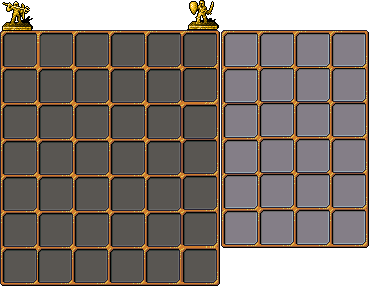
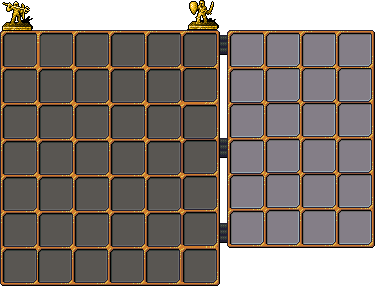
fixed inventory/vault wrong init placement
fixed inventory/vault wrong init placement

diff --git a/rpg/views/home_view.py b/rpg/views/home_view.py
@@ -119,11 +119,12 @@ class HomeView(arcade.View):
         self.camera_gui.use()
         self.home_button_bar.draw()
         self.button_list.draw()
-        if self.inventory and self.inventory.open:
+        if self.inventory:
             self.inventory.draw()
         
-        if self.vault and self.vault.open:
+        if self.vault:
             self.vault.draw()
+
 
         self.pointer.draw()
         # self.pointer.draw_hit_box(arcade.color.RED, line_thickness=1)
@@ -139,39 +140,34 @@ class HomeView(arcade.View):
     def handle_inventory_event(self, button):
         """Handle the action when the inventory button is clicked."""
         
-        # Close the vault if it's open
-        if self.vault and self.vault.open:
-            self.vault.open = False
+        # Close the vault if it exists
+        if self.vault:
+            self.vault = None
             self.vault_button.pressed = False  # Also un-press the vault button
 
+        # Toggle the existence of the inventory
         if self.inventory:
-            self.inventory.open = not self.inventory.open
-            if not self.inventory.open:
-                button.pressed = False
+            self.inventory = None
+            button.pressed = False
         else:
-            self.inventory = Inventory(filename="assets/gui/inventory.png", 
-                                    center_x=self.window.width, 
-                                    center_y=self.window.height/2)
-            self.inventory.open = True
+            self.inventory = Inventory(filename="assets/gui/inventory.png", center_x=self.window.width, center_y=self.window.height)
             self.storage_list.append(self.inventory)
 
     def handle_vault_event(self, button):
         """Handle the action when the vault button is clicked."""
         
-        # Close the inventory if it's open
-        if self.inventory and self.inventory.open:
-            self.inventory.open = False
+        # Close the inventory if it exists
+        if self.inventory:
+            self.inventory = None
             self.inventory_button.pressed = False  # Also un-press the inventory button
 
+        # Toggle the existence of the vault
         if self.vault:
-            self.vault.open = not self.vault.open
-            if not self.vault.open:
-                button.pressed = False
+            self.vault = None
+            button.pressed = False
         else:
             self.vault = Vault(filename="assets/gui/vault.png", 
-                            center_x=self.window.width, 
-                            center_y=self.window.height/2)
-            self.vault.open = True
+                               center_x=self.window.width, center_y=self.window.height)
             self.storage_list.append(self.vault)
             
     def button_press_check_event_launch(self):

diff --git a/rpg/storage.py b/rpg/storage.py
@@ -5,12 +5,11 @@ class Inventory(arcade.Sprite):
     def __init__(self, filename, center_x, center_y, scale=1):
         super().__init__(filename, scale)
         self.open = False
-        self.center_x = center_x
-        self.center_y = center_y
-        self.offset_x = self.width 
+        self.center_x = center_x - 187
+        self.center_y = center_y / 2 + 14
 
     def update(self, window_pos_x, window_pos_y):
-        self.center_x = window_pos_x - (self.offset_x - 64)
+        self.center_x = window_pos_x - 187
         self.center_y = window_pos_y / 2 + 14
 
 
@@ -18,9 +17,9 @@ class Vault(arcade.Sprite):
     def __init__(self, filename, center_x, center_y, scale=1):
         super().__init__(filename, scale)
         self.open = False
-        self.center_x = center_x
-        self.center_y = center_y
+        self.center_x = center_x - 249
+        self.center_y = center_y / 2 + 10
 
     def update(self, window_pos_x, window_pos_y):
-        self.center_x = window_pos_x - (self.width - 123)
+        self.center_x = window_pos_x - 249
         self.center_y = window_pos_y / 2 + 10
